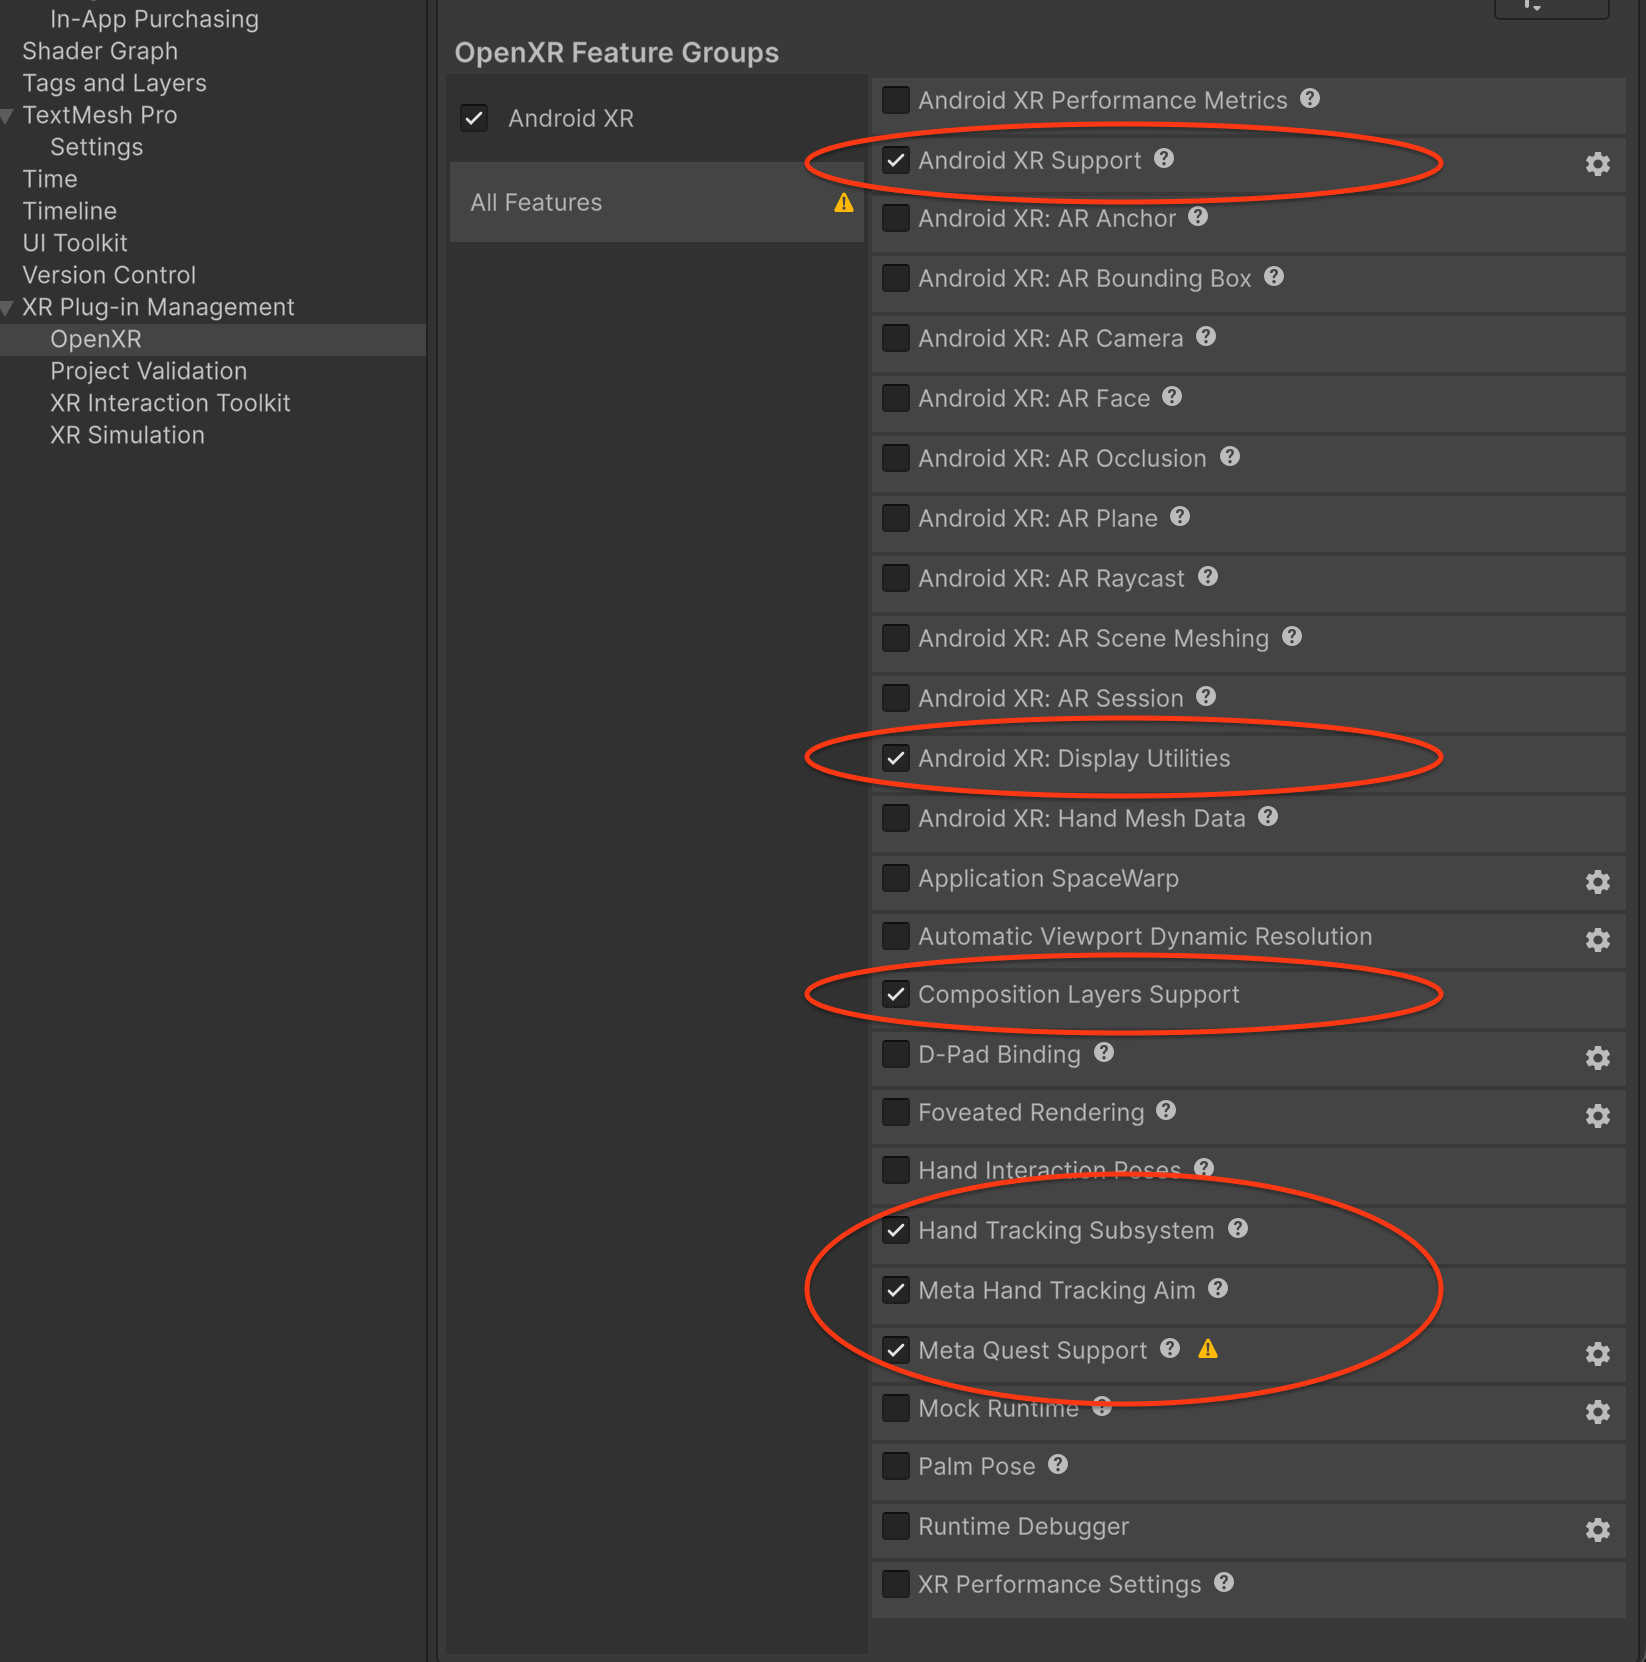
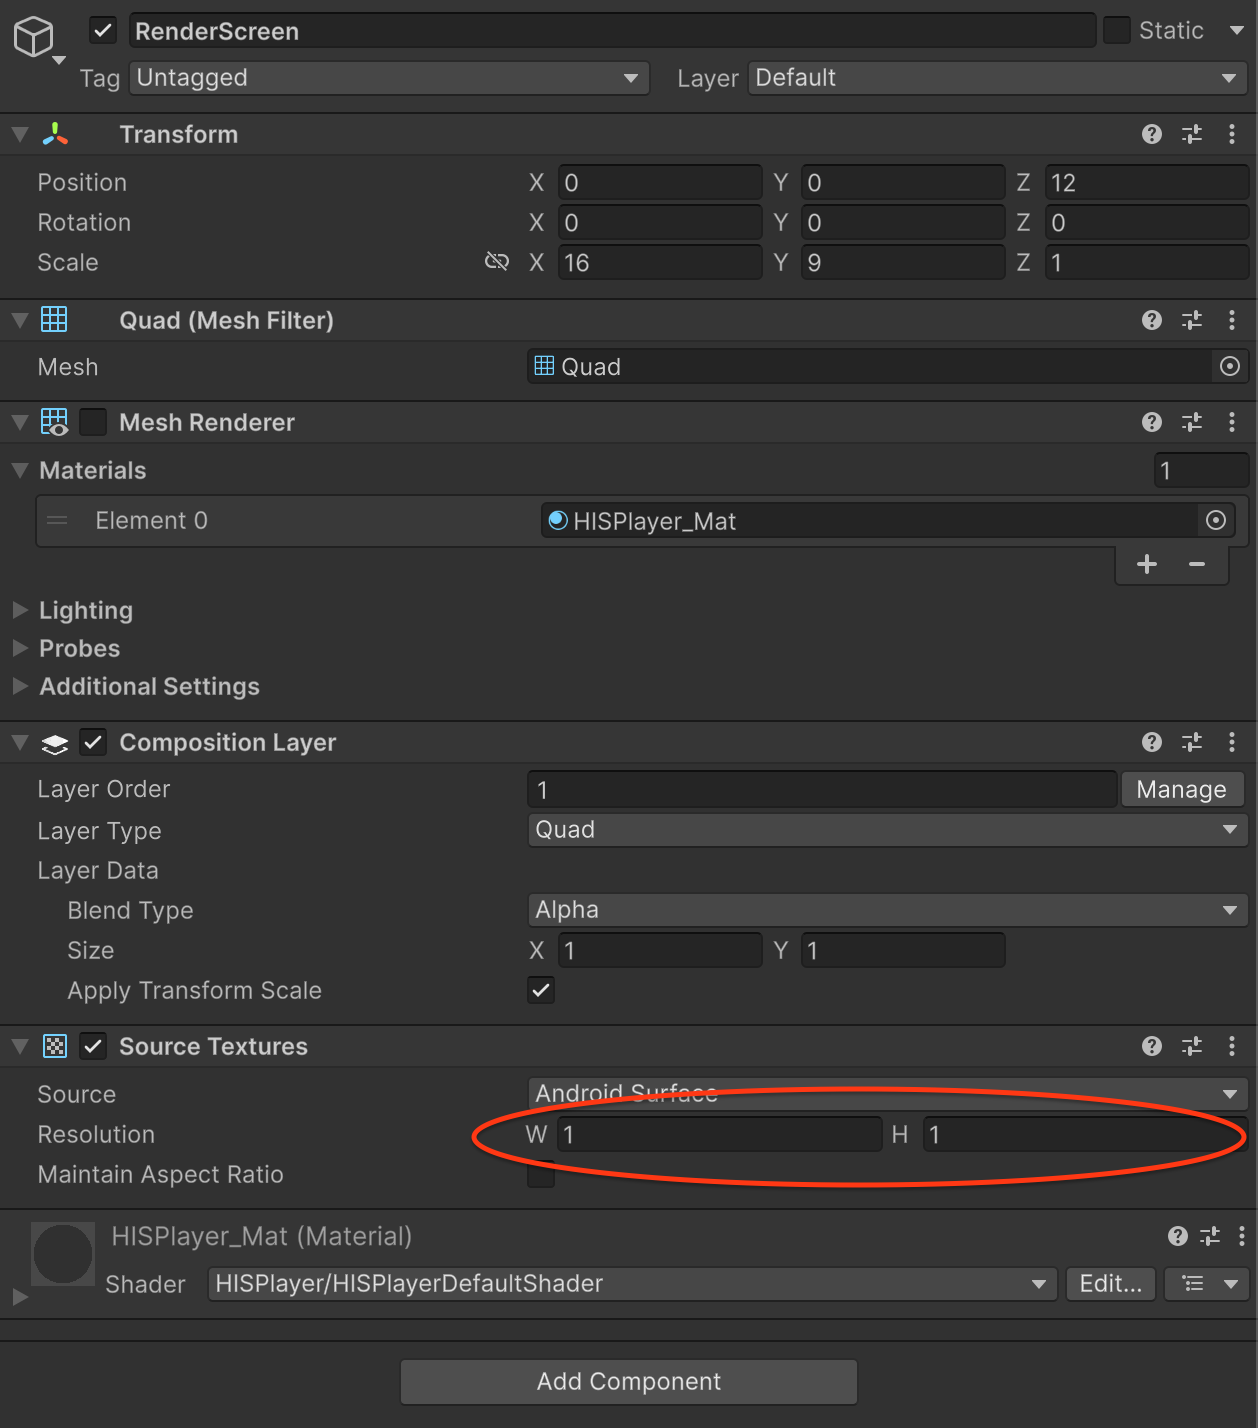
- Add Composition Layer in rendermodes.md and introduction.md - Update OpenXR Feature Setting in setup-guide.md

diff --git a/rendermodes.md b/rendermodes.md
@@ -1,20 +1,20 @@
 # RenderModes
 
-HISPlayer supports multiple rendering modes to suit different use cases and platforms. The recommended mode for XR/VR applications is **Composition Layer**, which leverages the OpenXR composition layer for optimal performance and latency. Other modes like **RenderTexture**, **Material**, and **RawImage** are also available for 2D UI or non‑XR scenarios.
+HISPlayer supports multiple rendering modes to suit different use cases and platforms. The recommended mode for XR/VR applications is **External Surface (Composition Layer)**, which leverages the OpenXR composition layer for optimal performance and latency. Other modes like **RenderTexture**, **Material**, and **RawImage** are also available for 2D UI or non‑XR scenarios.
 
-## Composition Layer
+## External Surface (Composition Layer)
 
-This mode uses **XR Composition Layers** to render video directly onto a composition layer, bypassing the main render pipeline for improved performance in XR headsets. It is the preferred choice for immersive VR experiences on Android (e.g., Meta Quest, Pico, etc.).
+This mode uses **XR Composition Layers** to render video directly onto a composition layer, bypassing the main render pipeline for improved performance in XR headsets. It is the preferred choice for immersive VR experiences on Android (e.g., Galaxy XR, Meta Quest, Pico, etc.).
 
 ### Setup
 
 1. Create an empty GameObject.
 2. Attach the following components to it:
    - **Composition Layer** (from the XR Composition Layers package)
-   - **Source Textures** (from the XR Composition Layers package). Set the **Resolution** the same as your video resolution.
-
+   - **Source Textures** (from the XR Composition Layers package). *The width (W) and height (H) values of the resolution must not be zero*. 
+    
 <p align="center">
-   <img alt="image" src="https://github.com/user-attachments/assets/e8d60613-05e2-47ab-b374-ff8d21be752b" />
+  <img src="image-4.png"  alt="texto" width="50%" style="height: auto;">
 </p>
 
 3. In your script (inheriting from `HISPlayerManager`) set the `renderMode` to `HISPlayerRenderMode.ExternalSurface` in the `MultiStreamProperties`.
@@ -23,9 +23,14 @@ This mode uses **XR Composition Layers** to render video directly onto a composi
   <img src="https://github.com/user-attachments/assets/e0c0e141-e3df-4c06-8c1b-241ba5e6615a" alt="texto" width="50%" style="height: auto;" />
 </p>
 
-4. Implement a coroutine to retrieve the native Android surface from the `CompositionLayer` and assign it to the `externalSurface` property of your stream. The following example shows how to do this:
+4. Implement a coroutine to retrieve the native Android surface from the `CompositionLayer` and assign it to the `externalSurface` property of your stream. <br>
+The resolution of the Source Textures cannot be zero, so a minimum value must be enforced. If the resolution is zero, acquiring the Android surface will fail.
+The following example shows how to do this:
 
 ```C#
+using Unity.XR.CompositionLayers;
+using Unity.XR.CompositionLayers.Extensions;
+
 [SerializeField] private GameObject renderScreen;
 private IEnumerator SetUpExternalSurface()
 {
@@ -35,26 +40,62 @@ private IEnumerator SetUpExternalSurface()
     int maxAttempts = 10;
     int attempts = 0;
 
+    SetExternalSurfaceSize(1, 1);
+
     while (surfacePtr == IntPtr.Zero && attempts < maxAttempts)
     {
         yield return new WaitForEndOfFrame();
-        surfacePtr = OpenXRLayerUtility.GetLayerAndroidSurfaceObject(layer.GetInstanceID());
+
+        int layerId = layer.GetInstanceID();
+        surfacePtr = UnityEngine.XR.OpenXR.CompositionLayers.OpenXRLayerUtility.GetLayerAndroidSurfaceObject(layerId);
+
         attempts++;
     }
 
     if (surfacePtr != IntPtr.Zero)
     {
         multiStreamProperties[streamIndex].externalSurface = surfacePtr;
+        
     }
     SetUpPlayer();
 }
+
+private void SetExternalSurfaceSize(int width, int height)
+{
+    TexturesExtension sourceTexturesComponent = renderScreen.GetComponent<TexturesExtension>();
+    if (sourceTexturesComponent != null)
+    {
+        sourceTexturesComponent.Resolution = new Vector2(width, height);
+    }
+}
 ```
 
-> Important: SetUpPlayer() must be called after the surface is assigned and before using any other HISPlayer API.
+> Important: SetUpPlayer() must be called after the surface is assigned and before using any other HISPlayer APIs. Additionally, the resolution of the **Source Textures** must match the original video resolution.
 
 ### Retrieving the Android Surface
 
 The script uses the `OpenXRLayerUtility.GetLayerAndroidSurfaceObject()` method to obtain the native surface pointer from the `CompositionLayer` and assigns it to the `externalSurface` field before calling `SetUpPlayer()`.
+
+### Updating the Resolution of Source Textures
+The resolution of the **Source Textures** must match the original video resolution. Otherwise, the output video frames will be cropped or display garbage data. Therefore, the width (W) and height (H) must be updated whenever the original video resolution changes. Please override the `void EventVideoSizeChange(HISPlayerEventInfo eventInfo)` function and set the new resolution values within it.
+
+```C#
+protected override void EventVideoSizeChange(HISPlayerEventInfo eventInfo)
+{
+    if (!isPlaybackReady)
+    {
+        videoTracks = GetTracks(streamIndex);
+    }
+
+    if (videoTracks != null)
+    {
+        int width = (int)eventInfo.param1;
+        int height = (int)eventInfo.param2;
+
+        SetExternalSurfaceSize(width, height);
+    }
+}
+```
 
 
 ## RenderTexture

diff --git a/setup-guide.md b/setup-guide.md
@@ -107,9 +107,9 @@ Alternatively, you may set the Target API level to 34 or higher in the Unity pro
 2. **Interaction Profiles**:
     - Look for the "Interaction Profiles" section.
     - Click the **"+" (plus)** icon under the list.
-    - Select **Khronos Simple Controller Profile**.
+    - Select **Khronos Simple Controller Profile**. This is needed to support hand tracking.
     - Click the **"+" (plus)** icon again.
-    - Select **Oculus Touch Controller Profile** or other controller profile depending on your VR headsets.
+    - Select **Oculus Touch Controller Profile** or other controller profile depending on your VR headsets. This is needed to support 6DoF (Six Degrees of Freedom) controllers.
 
 <p align="center">
 <img width=800 src="image-3.png">
@@ -118,11 +118,11 @@ Alternatively, you may set the Target API level to 34 or higher in the Unity pro
 
 3. **OpenXR Feature Groups**:
     - Scroll down to the bottom of the OpenXR settings panel.
-    - Check the box for **Android XR Support** or other option depending on your VR headset. 
+    - Check the box for **Android XR Support**. 
     - Check the box for **Composition Layer Support**.
 
 <p align="center">
-<img width=760 src="image-4.png">
+<img width=760 src="image-5.png">
 <!-- <img src="https://github.com/user-attachments/assets/218dbe0e-96ea-4153-a8bf-6fe07e6933b3"> -->
 </p>
 
@@ -160,7 +160,11 @@ Select one of sample scenes explained below.
 
 #### HEVC_8K Scene
 
-This scene demonstrates high-resolution video playback.
+This scene demonstrates high-resolution video playback using **Material** render mode.
+
+#### HEVC_8K Composition Layer Scene
+
+This scene demonstrates high-resolution video playback using **ExternalSurface** render mode.
 
 #### 360° Scene
 

diff --git a/introduction.md b/introduction.md
@@ -58,6 +58,7 @@ HISPlayer is the most advanced video streaming player for Unity, supporting loca
   * Render Texture
   * Material Override
   * Raw image
+  * External Surface
 
 ### Supported Graphics API
   * Vulkan
